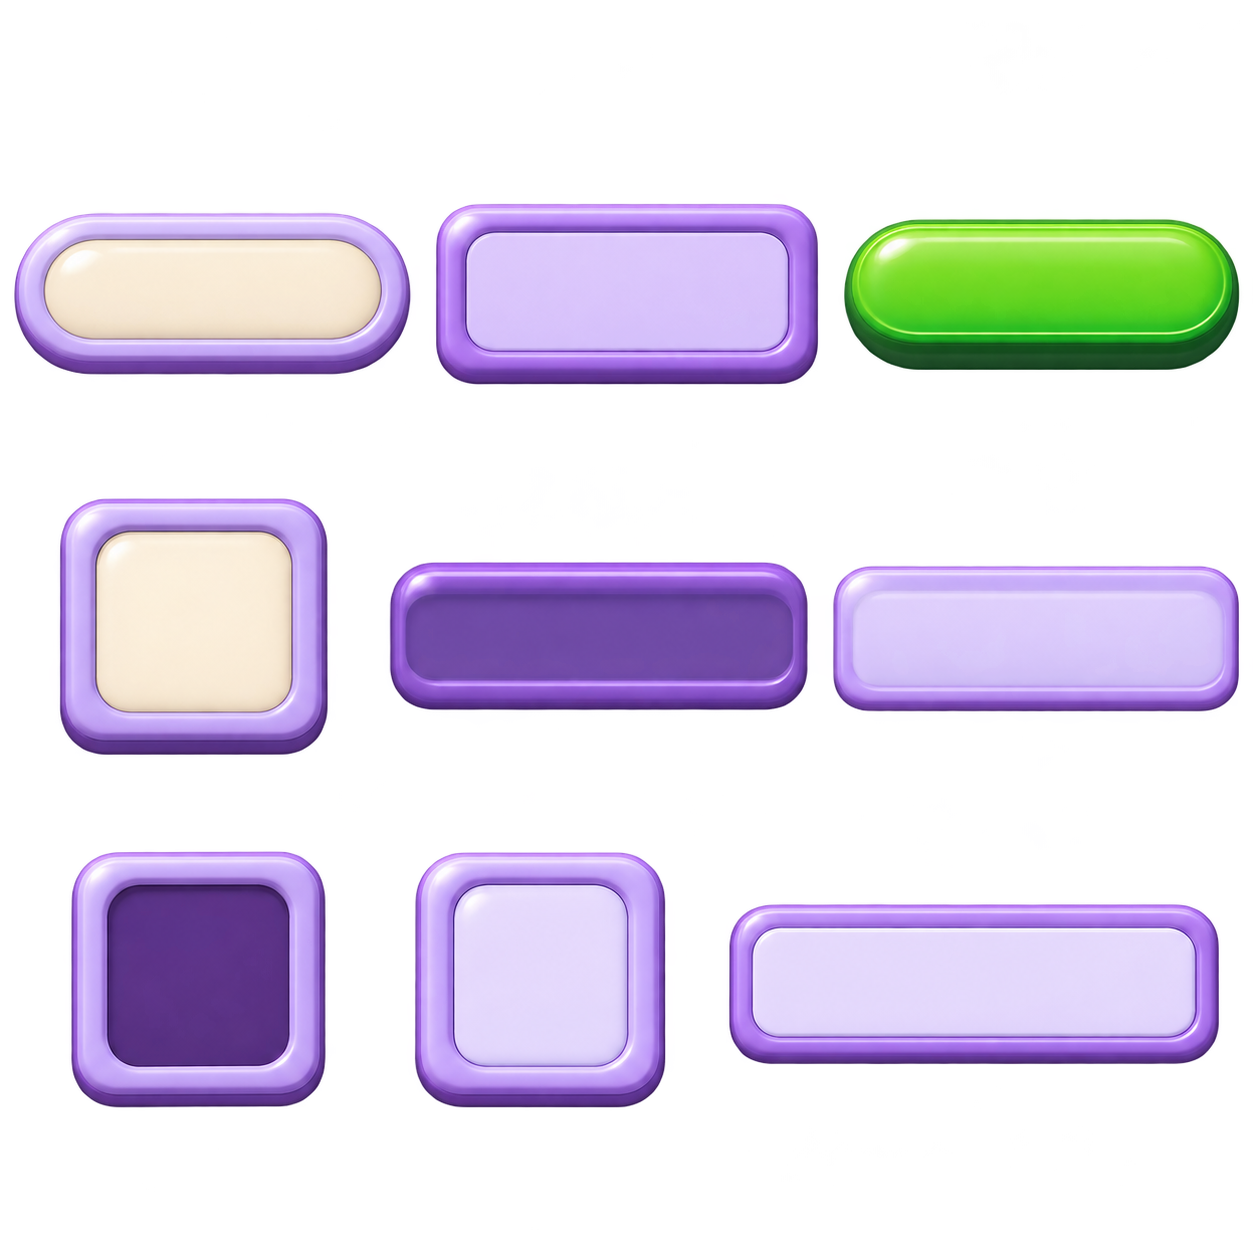
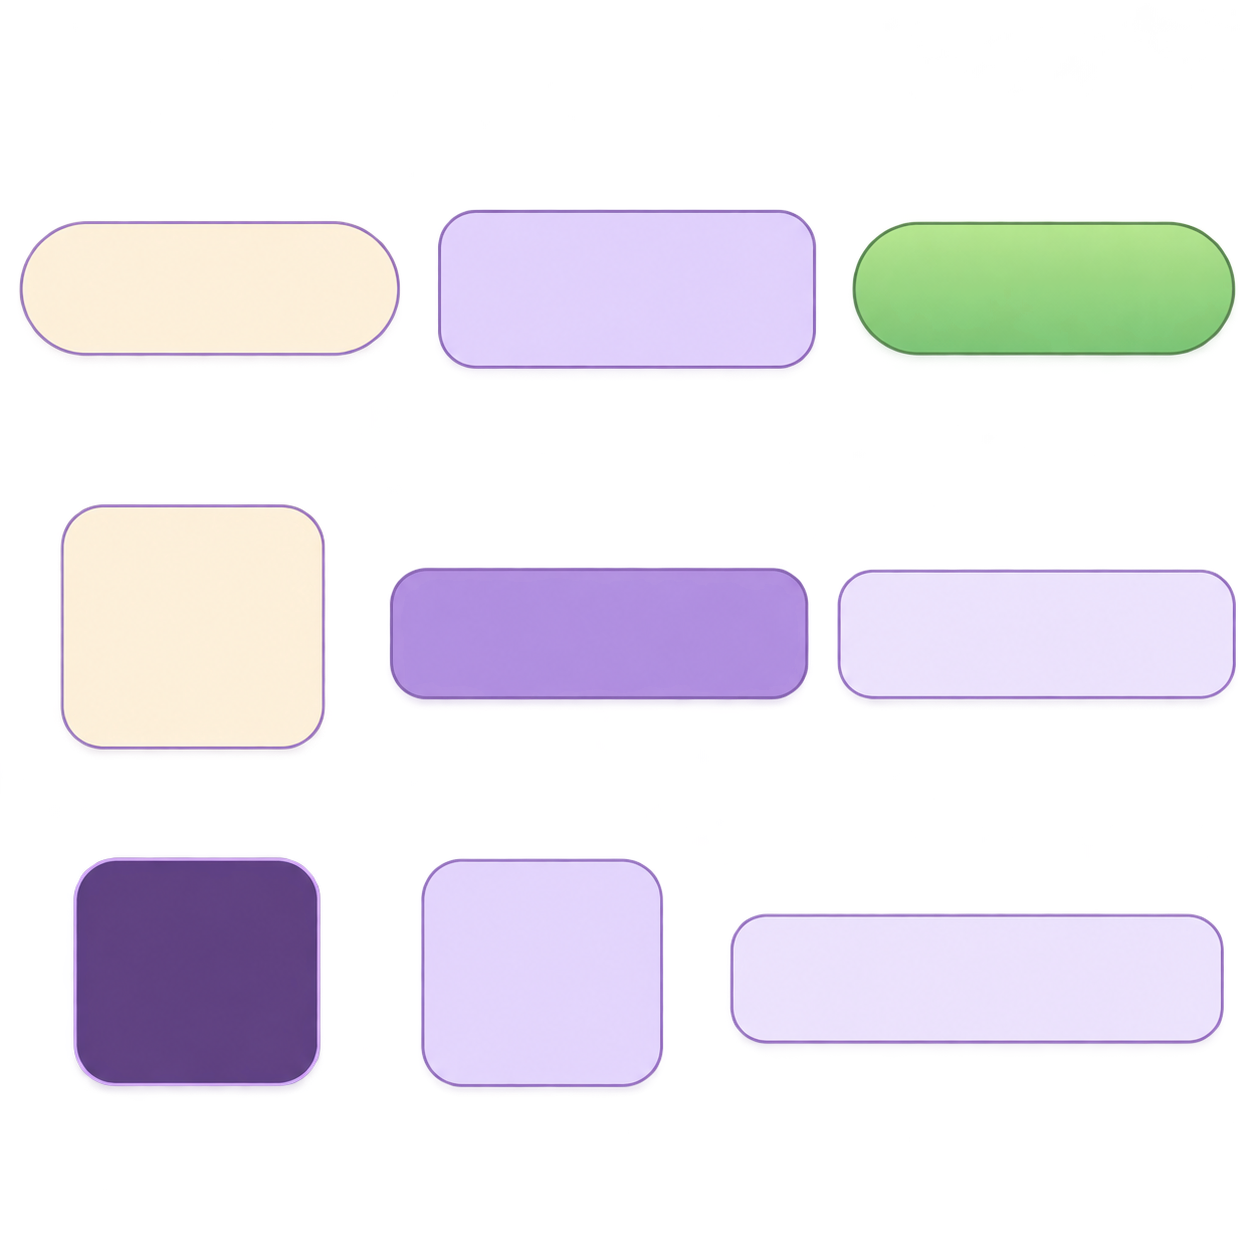
개선(UI): HUD와 상점의 과한 입체감을 줄이고 가독성 조정
- 카드·버튼·하단 탭의 두꺼운 테두리와 강한 광택을 얇은 테두리와 은은한 음영으로 완화
- 아이콘의 볼륨감과 기존 UI 배치·스프라이트 참조 유지
- 밝아진 구매 버튼에 맞춰 가격 글자를 진한 보라색으로 변경
- 로비 이동 및 상점 스크롤·미리보기 PlayMode 테스트 2건 통과

diff --git a/Assets/_Project/Bounce/Runtime/Presentation/BoosterShopView.cs b/Assets/_Project/Bounce/Runtime/Presentation/BoosterShopView.cs
@@ -182,7 +182,7 @@ namespace BK.Kit
         {
             var image=Image(parent,name,size,position,Sprite("IMG_Bundle_Goods_Btn"));image.raycastTarget=true;
             var button=image.gameObject.AddComponent<Button>();button.targetGraphic=image;
-            Label(button.transform,text,size-new Vector2(28,18),Vector2.zero,fontSize,new Color(1,1,.84f));
+            Label(button.transform,text,size-new Vector2(28,18),Vector2.zero,fontSize,Ink);
             button.onClick.AddListener(()=>click());return button;
         }
         private Image Icon(Transform parent,string sprite,Vector2 size,Vector2 position)
